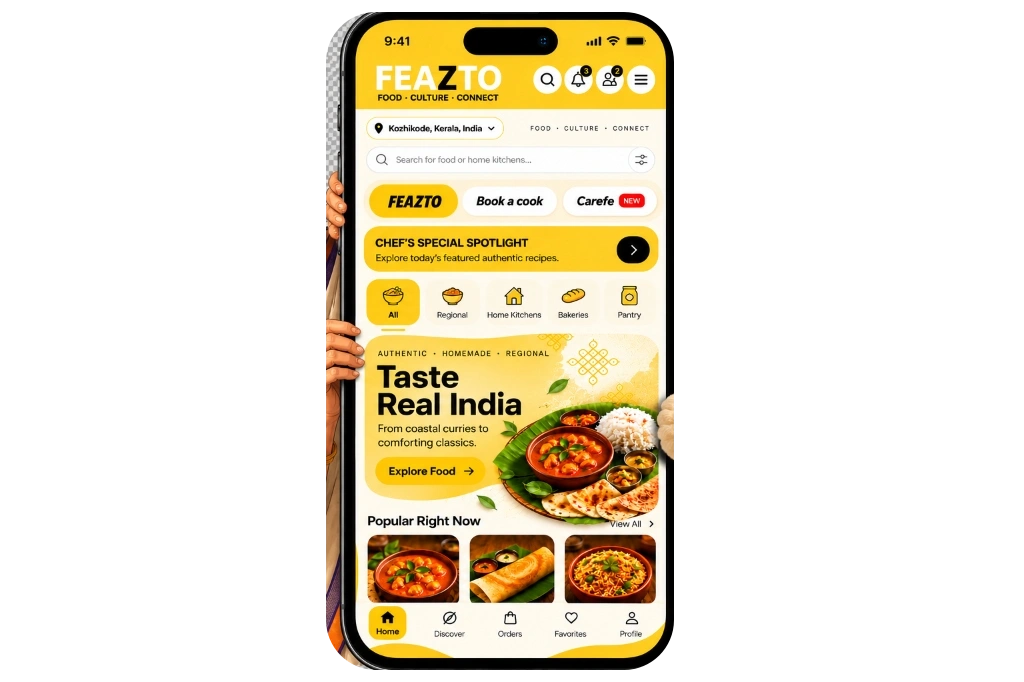
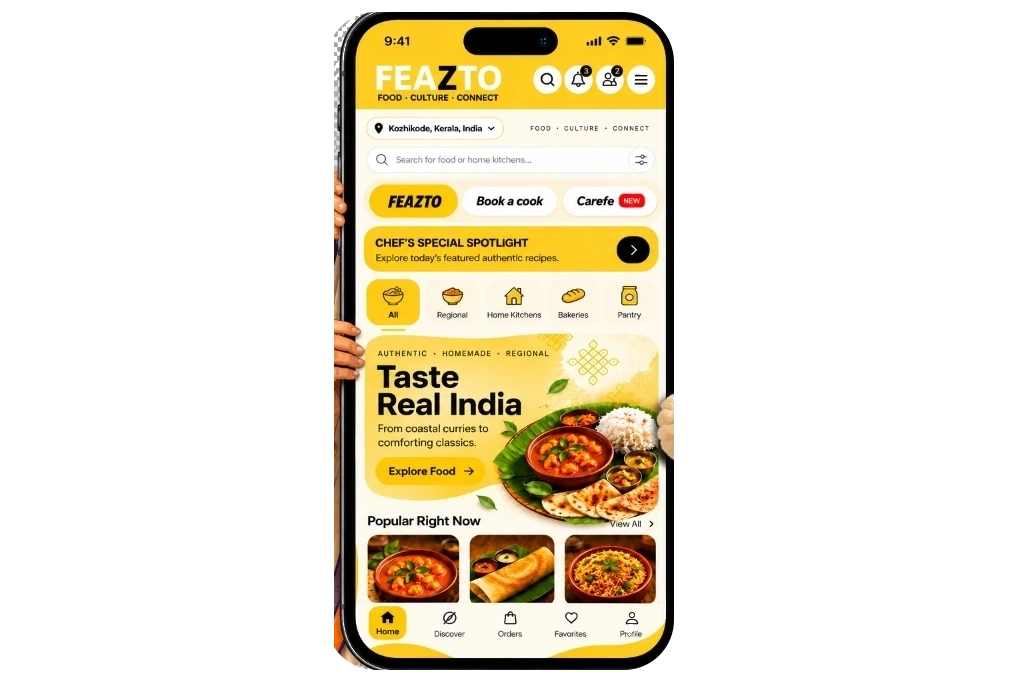
feat: animate grandma and fezu hiding in and peeking out when scrolling with transparent edge cutout

Changed region(s): [[0.3125, 0.0308, 0.3438, 0.9545]]

diff --git a/src/components/PeekingGrandmaFezuBanner.tsx b/src/components/PeekingGrandmaFezuBanner.tsx
@@ -2,10 +2,12 @@ import React, { useEffect, useRef } from 'react';
 
 export const PeekingGrandmaFezuBanner: React.FC = () => {
   const stageRef = useRef<HTMLDivElement>(null);
-  const grandmaHeadRef = useRef<HTMLDivElement>(null);
   const grandmaGroupRef = useRef<HTMLDivElement>(null);
-  const fezuHeadRef = useRef<HTMLDivElement>(null);
+  const grandmaHeadRef = useRef<HTMLDivElement>(null);
+  const grandmaHandsRef = useRef<HTMLDivElement>(null);
   const fezuGroupRef = useRef<HTMLDivElement>(null);
+  const fezuHeadRef = useRef<HTMLDivElement>(null);
+  const fezuPawRef = useRef<HTMLDivElement>(null);
   const phoneRef = useRef<HTMLDivElement>(null);
 
   useEffect(() => {
@@ -18,42 +20,75 @@ export const PeekingGrandmaFezuBanner: React.FC = () => {
           const rect = stageRef.current.getBoundingClientRect();
           const winHeight = window.innerHeight;
 
-          // Progress from 0 (approaching view) to 1 (passed view)
-          // Centered around 0.5
+          // Viewport coverage progress:
+          // progress = 0: stage is just entering bottom of screen
+          // progress = 0.5: stage is centered in screen
+          // progress = 1: stage is exiting top of screen
           const progress = Math.min(Math.max((winHeight - rect.top) / (winHeight + rect.height), 0), 1);
-          const scrollFactor = (progress - 0.5) * 2; // -1 to +1
 
-          // Gentle parallax & turning effect
-          // Grandma looks/turns toward the central phone as user scrolls
-          if (grandmaHeadRef.current) {
-            const rotY = Math.sin(progress * Math.PI) * 12; // leans in
-            const rotZ = scrollFactor * 4;
-            grandmaHeadRef.current.style.transform = `rotateY(${rotY}deg) rotateZ(${rotZ}deg)`;
-          }
+          // Peek factor:
+          // We want Grandma and Fezu to HIDE IN behind the phone when user hasn't scrolled to them or scrolls past,
+          // and PEEK FULLY OUT when the banner is in comfortable viewing range (progress around 0.35 to 0.65).
+          // Normalized peek amount (0 = completely hidden behind phone, 1 = fully peeked out)
+          // Using a smooth sine curve peaking when stage is in view:
+          const peekAmount = Math.sin(progress * Math.PI); // 0 -> 1 -> 0
 
+          // Hidden offsets:
+          // Grandma hides to the right (translateX: +160px behind phone), scale down slightly, opacity fades when deep behind
+          // Fezu hides to the left (translateX: -160px behind phone)
+          const grandmaHideX = (1 - peekAmount) * 165; // pixels hidden behind phone
+          const grandmaHideY = (1 - peekAmount) * 35;
+          const grandmaRot = (1 - peekAmount) * 12; // tilt inward behind phone
+
+          const fezuHideX = -(1 - peekAmount) * 165; // pixels hidden behind phone
+          const fezuHideY = (1 - peekAmount) * 35;
+          const fezuRot = -(1 - peekAmount) * 14;
+
+          // Opacity also dips to 0 when completely out of view (<0.08 or >0.92)
+          const charOpacity = Math.min(Math.max(peekAmount * 1.5, 0), 1);
+
+          // Apply to Grandma Group (Body + Head)
           if (grandmaGroupRef.current) {
-            const transX = Math.sin(progress * Math.PI) * 8; // peeks out from left
-            const transY = scrollFactor * 10;
-            grandmaGroupRef.current.style.transform = `translateX(${transX}px) translateY(${transY}px)`;
+            grandmaGroupRef.current.style.transform = `translate3d(${grandmaHideX}px, ${grandmaHideY}px, 0) rotate(${grandmaRot}deg)`;
+            grandmaGroupRef.current.style.opacity = `${charOpacity}`;
           }
 
-          // Fezu mascot looks/turns excitedly toward the central phone
-          if (fezuHeadRef.current) {
-            const fRotY = -Math.sin(progress * Math.PI) * 14; // leans in from right
-            const fRotZ = -scrollFactor * 5;
-            fezuHeadRef.current.style.transform = `rotateY(${fRotY}deg) rotateZ(${fRotZ}deg)`;
+          // Dynamic head turning:
+          if (grandmaHeadRef.current) {
+            const headTurn = Math.sin(progress * Math.PI) * 16;
+            grandmaHeadRef.current.style.transform = `rotateY(${headTurn}deg) rotateZ(${(progress - 0.5) * 6}deg)`;
           }
 
+          // Grandma's hands gripping phone: slide and fade smoothly with Grandma
+          if (grandmaHandsRef.current) {
+            // Hands grip the phone bezel when she is peeked out, retreat when hidden
+            grandmaHandsRef.current.style.transform = `translate3d(${grandmaHideX * 0.75}px, ${grandmaHideY * 0.5}px, 0)`;
+            grandmaHandsRef.current.style.opacity = `${charOpacity}`;
+          }
+
+          // Apply to Fezu Group (Body + Head)
           if (fezuGroupRef.current) {
-            const fTransX = -Math.sin(progress * Math.PI) * 10; // peeks out from right
-            const fTransY = scrollFactor * 8;
-            fezuGroupRef.current.style.transform = `translateX(${fTransX}px) translateY(${fTransY}px)`;
+            fezuGroupRef.current.style.transform = `translate3d(${fezuHideX}px, ${fezuHideY}px, 0) rotate(${fezuRot}deg)`;
+            fezuGroupRef.current.style.opacity = `${charOpacity}`;
           }
 
-          // Subtle floating tilt for the central phone
+          // Dynamic Fezu head tilting
+          if (fezuHeadRef.current) {
+            const fHeadTurn = -Math.sin(progress * Math.PI) * 18;
+            fezuHeadRef.current.style.transform = `rotateY(${fHeadTurn}deg) rotateZ(${-(progress - 0.5) * 6}deg)`;
+          }
+
+          // Fezu paw gripping phone
+          if (fezuPawRef.current) {
+            fezuPawRef.current.style.transform = `translate3d(${fezuHideX * 0.75}px, ${fezuHideY * 0.5}px, 0)`;
+            fezuPawRef.current.style.opacity = `${charOpacity}`;
+          }
+
+          // Gentle 3D floating effect on the central phone
           if (phoneRef.current) {
-            const phoneRotX = scrollFactor * -6;
-            const phoneTransY = scrollFactor * -8;
+            const scrollFactor = (progress - 0.5) * 2;
+            const phoneRotX = scrollFactor * -5;
+            const phoneTransY = scrollFactor * -6;
             phoneRef.current.style.transform = `perspective(1000px) rotateX(${phoneRotX}deg) translateY(${phoneTransY}px)`;
           }
 
@@ -104,7 +139,7 @@ export const PeekingGrandmaFezuBanner: React.FC = () => {
           pointer-events: none;
           will-change: transform, opacity;
           transform-style: preserve-3d;
-          transition: transform 0.15s cubic-bezier(0.2, 0, 0.2, 1);
+          transition: transform 0.12s cubic-bezier(0.2, 0, 0.2, 1), opacity 0.12s ease-out;
         }
 
         .feazto-layer img {
@@ -115,10 +150,10 @@ export const PeekingGrandmaFezuBanner: React.FC = () => {
           background: transparent !important;
         }
 
-        /* 1. GRANDMA GROUP */
+        /* 1. GRANDMA GROUP (Behind Phone: z-index 11 & 12) */
         .layer-grandma-group {
           z-index: 11;
-          transform-origin: 24% 52%;
+          transform-origin: 34% 56%;
         }
 
         .layer-grandma-body {
@@ -128,12 +163,13 @@ export const PeekingGrandmaFezuBanner: React.FC = () => {
         .layer-grandma-head {
           z-index: 12;
           transform-origin: 23.63% 36.95%;
+          transition: transform 0.15s cubic-bezier(0.2, 0, 0.2, 1);
         }
 
-        /* 2. FEZU MASCOT GROUP */
+        /* 2. FEZU MASCOT GROUP (Behind Phone: z-index 11 & 12) */
         .layer-fezu-group {
           z-index: 11;
-          transform-origin: 75% 58%;
+          transform-origin: 66% 60%;
         }
 
         .layer-fezu-body {
@@ -143,16 +179,17 @@ export const PeekingGrandmaFezuBanner: React.FC = () => {
         .layer-fezu-head {
           z-index: 12;
           transform-origin: 74.71% 60.85%;
+          transition: transform 0.15s cubic-bezier(0.2, 0, 0.2, 1);
         }
 
-        /* 3. CENTRAL PHONE BANNER */
+        /* 3. CENTRAL PHONE BANNER (Middle Layer: z-index 20) */
         .layer-phone {
           z-index: 20;
           transform-origin: 50% 50%;
-          filter: drop-shadow(0 22px 38px rgba(15, 23, 42, 0.22));
+          filter: drop-shadow(0 24px 44px rgba(15, 23, 42, 0.25));
         }
 
-        /* 4. FOREGROUND HANDS & PAWS (Overlapping Phone Edges) */
+        /* 4. FOREGROUND HANDS & PAWS (Overlapping Phone Edges: z-index 30) */
         .layer-grandma-hands {
           z-index: 30;
           transform-origin: 33.01% 41.06%;
@@ -200,13 +237,13 @@ export const PeekingGrandmaFezuBanner: React.FC = () => {
         </div>
 
         {/* 4. FOREGROUND OVERLAY: GRANDMA'S HANDS (z-index 30) */}
-        <div id="grandma-hands" className="feazto-layer layer-grandma-hands">
-          <img src="/brand/peeking/grandma-hands.webp" alt="Grandma Hands Gripping Phone" />
+        <div id="grandma-hands" ref={grandmaHandsRef} className="feazto-layer layer-grandma-hands">
+          <img src="/brand/peeking/grandma-hands-clean.webp" alt="Grandma Hands Gripping Phone" />
         </div>
 
         {/* 5. FOREGROUND OVERLAY: FEZU'S CHEF PAW (z-index 30) */}
-        <div id="fezu-paw" className="feazto-layer layer-fezu-paw">
-          <img src="/brand/peeking/fezu-paw.webp" alt="Fezu Chef Paw Gripping Phone" />
+        <div id="fezu-paw" ref={fezuPawRef} className="feazto-layer layer-fezu-paw">
+          <img src="/brand/peeking/fezu-paw-clean.webp" alt="Fezu Chef Paw Gripping Phone" />
         </div>
       </div>
     </div>
